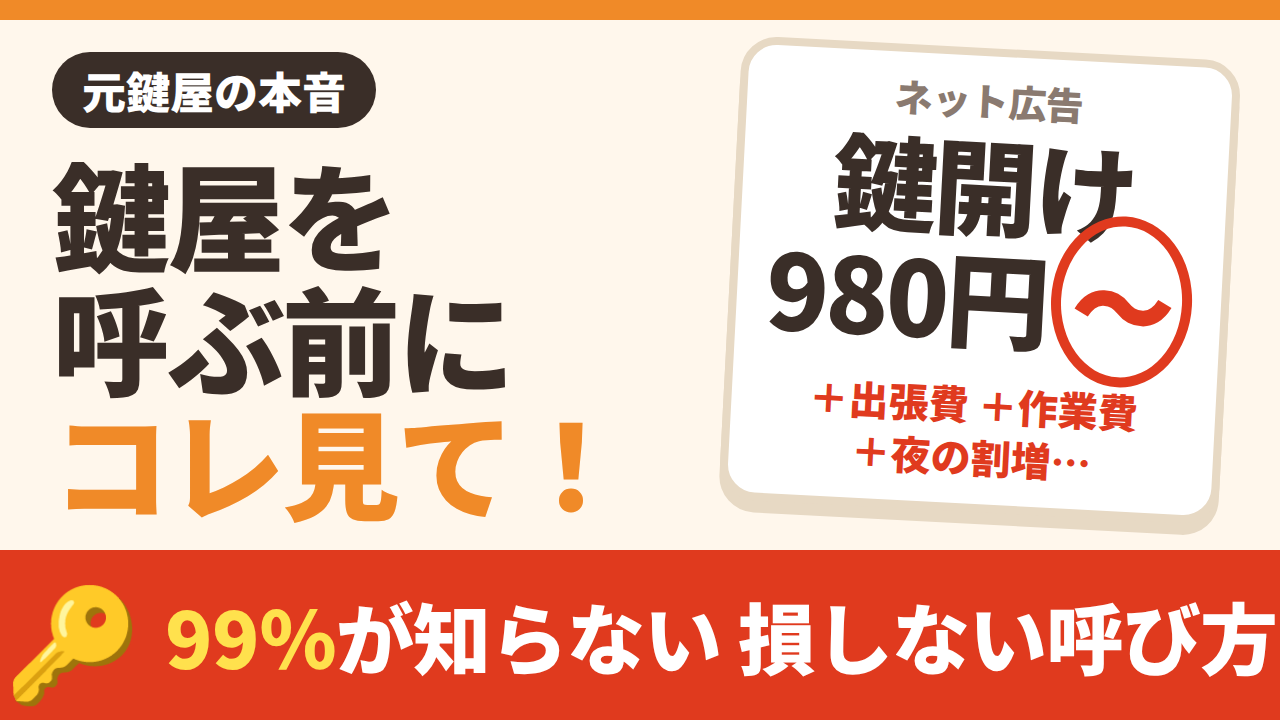
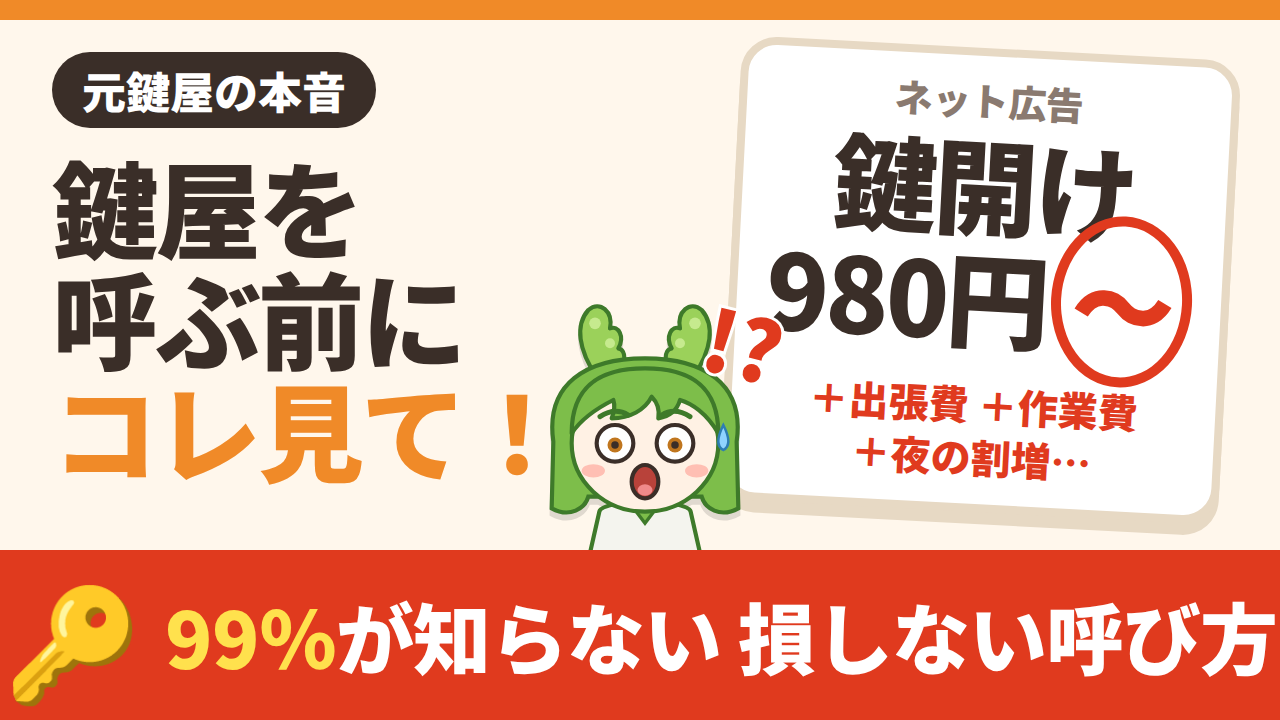
Add surprised Zundamon illustration to episode 1 thumbnail
Claude-Session: https://claude.ai/code/session_01LqY6sfpLjywFRptLGYnv12

Changed region(s): [[0.0312, 0.2139, 0.625, 0.7639]]

diff --git a/kagiya/ep01/thumb/thumb.html b/kagiya/ep01/thumb/thumb.html
@@ -5,7 +5,7 @@ html,body{width:1280px;height:720px;overflow:hidden}
 body{background:#FFF7EC;font-family:N,"Noto Color Emoji";font-weight:900;color:#3A2E28;position:relative}
 .band{position:absolute;left:0;right:0;top:0;height:20px;background:#F08A28}
 .tag{position:absolute;left:52px;top:52px;background:#3A2E28;color:#fff;font-size:44px;padding:6px 30px;border-radius:40px}
-.l1{position:absolute;left:52px;top:150px;font-size:118px;line-height:1.05;letter-spacing:-3px}
+.l1{position:absolute;left:52px;top:150px;font-size:106px;line-height:1.05;letter-spacing:-3px}
 .l1 em{font-style:normal;color:#F08A28}
 .ad{position:absolute;right:50px;top:48px;width:500px;background:#fff;border:8px solid #E7D9C4;border-radius:36px;padding:16px 20px 22px;text-align:center;transform:rotate(3deg);box-shadow:0 12px 0 #E7D9C4}
 .ad .s{font-size:38px;color:#8A7A70}
@@ -16,10 +16,13 @@ body{background:#FFF7EC;font-family:N,"Noto Color Emoji";font-weight:900;color:#
 .bottom .k{font-size:110px}
 .bottom .t{font-size:78px;letter-spacing:-1px}
 .bottom .t b{color:#FFE14D}
+.zun{position:absolute;left:520px;top:300px;width:250px;filter:drop-shadow(0 6px 0 rgba(0,0,0,.12))}
+.ex{position:absolute;left:705px;top:282px;font-size:84px;color:#E03A1E;transform:rotate(14deg);-webkit-text-stroke:6px #fff;paint-order:stroke}
 </style></head><body>
 <div class="band"></div>
 <div class="tag">元鍵屋の本音</div>
 <div class="l1">鍵屋を<br>呼ぶ前に<br><em>コレ見て！</em></div>
 <div class="ad"><div class="s">ネット広告</div><div class="p">鍵開け<br>980円<span class="ring">〜</span></div><div class="x">＋出張費 ＋作業費<br>＋夜の割増…</div></div>
+<img class="zun" src="zunda.svg"><div class="ex">!?</div>
 <div class="bottom"><span class="k">🔑</span><span class="t"><b>99％</b>が知らない 損しない呼び方</span></div>
 </body></html>
